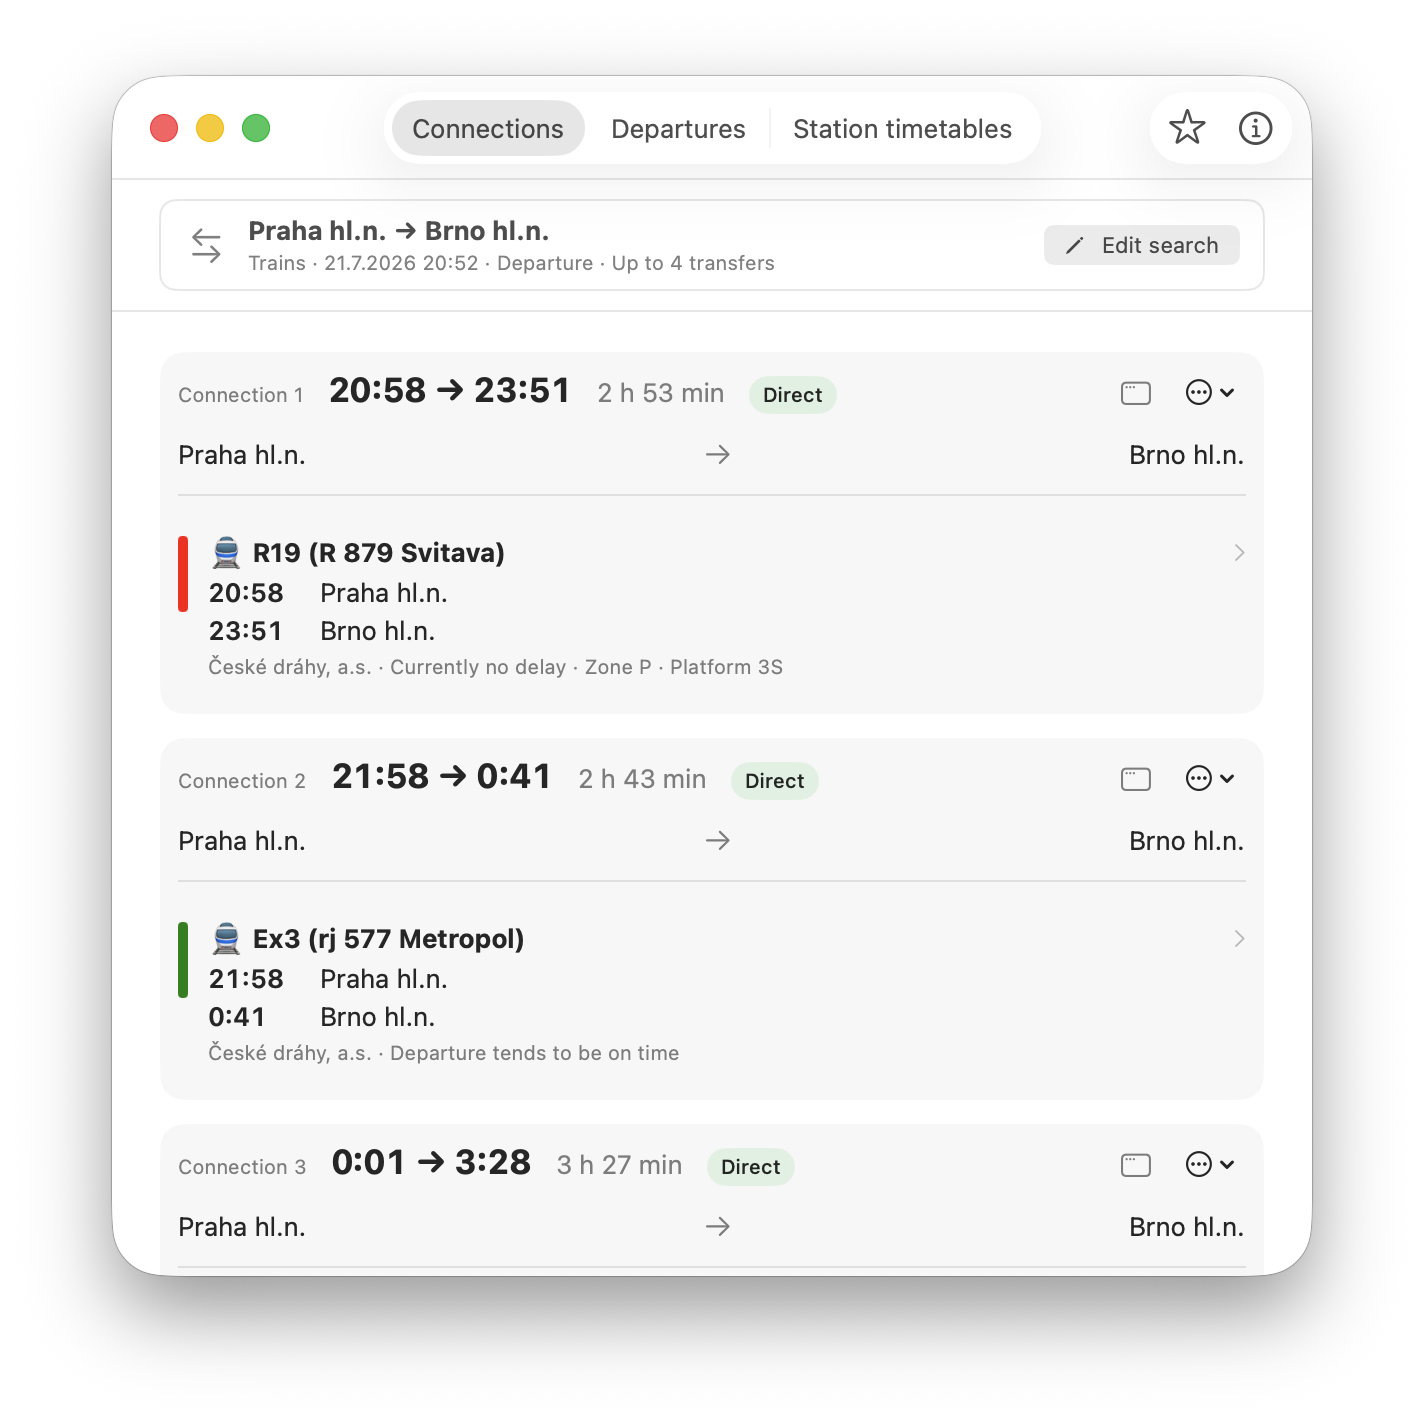
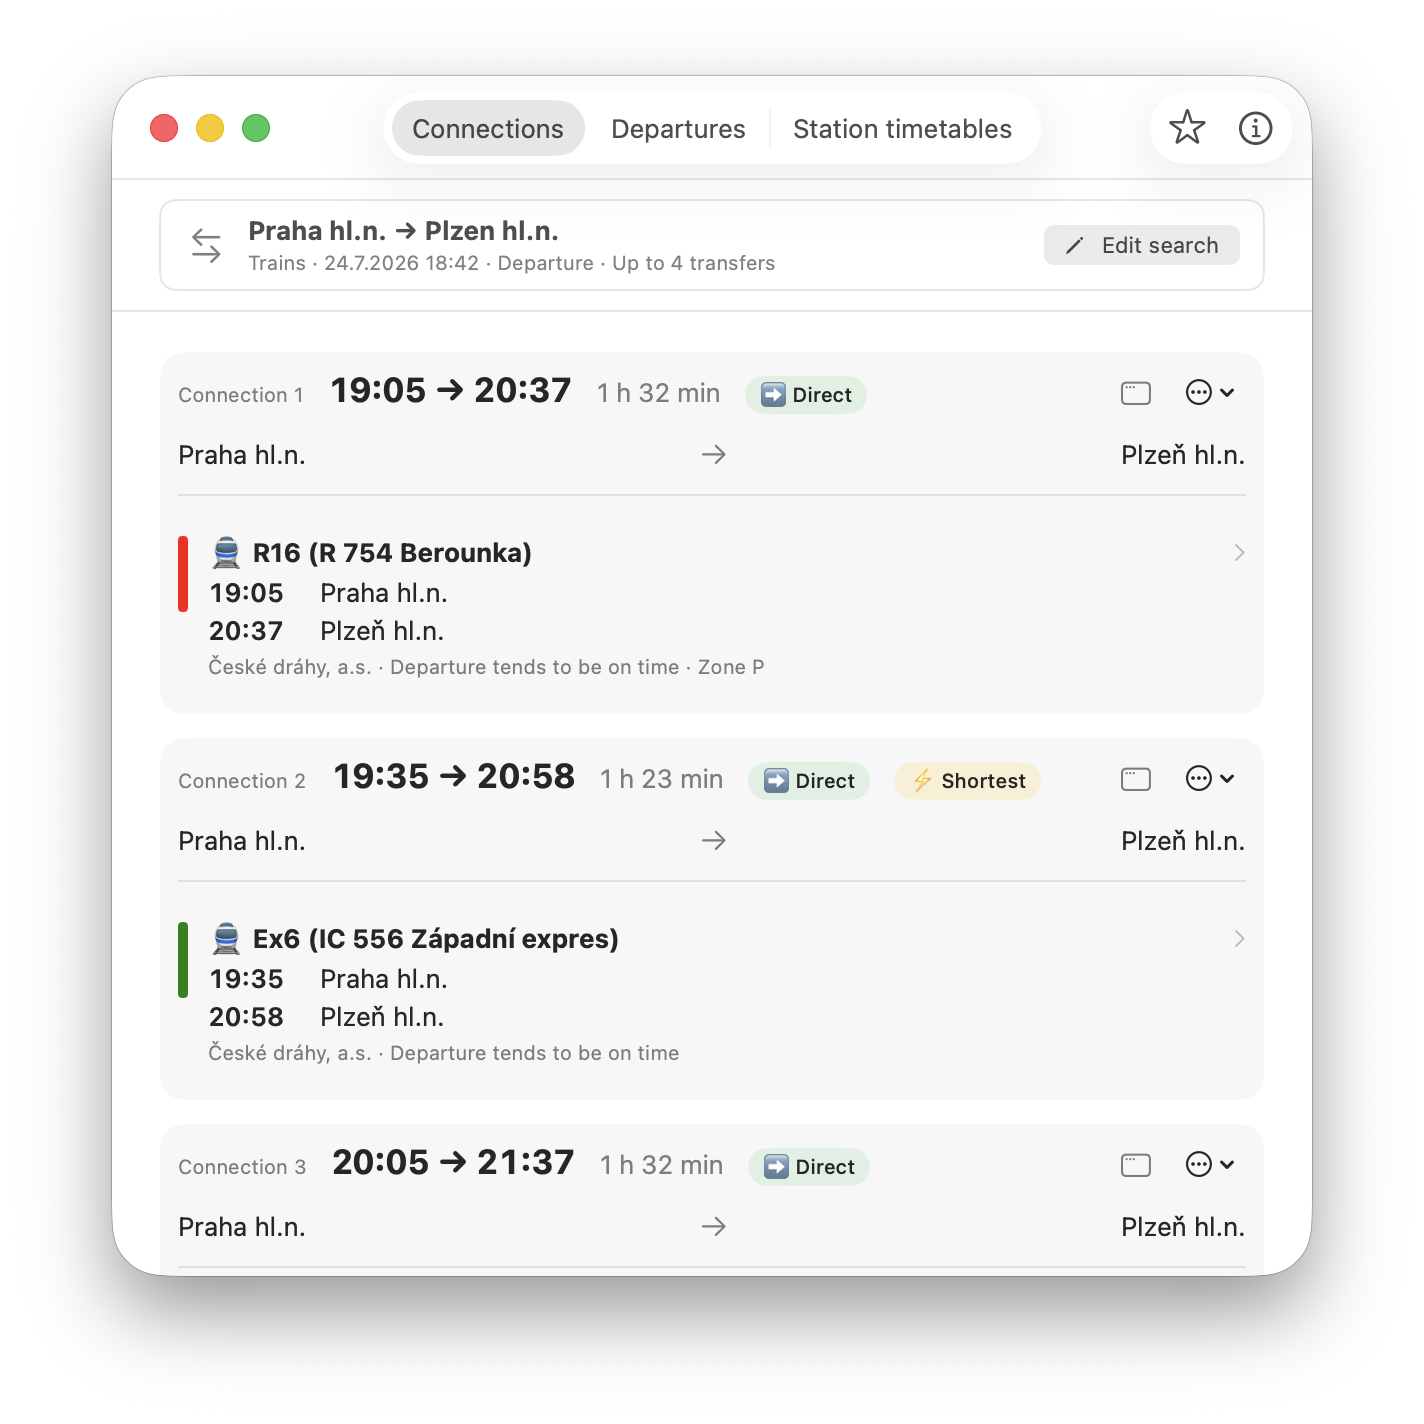
Refresh README screenshot with connection badges

diff --git a/README.md b/README.md
@@ -5,7 +5,7 @@
 Kaštan is an open-source companion for occasional personal [IDOS](https://idos.cz/en/) searches. Use it as a
 native macOS app or from a terminal, or integrate its search engine as a Swift library or local MCP server.
 
-![Kaštan for macOS showing train connections from Prague to Brno](docs/images/kastan-macos-connections.png)
+![Kaštan for macOS showing train connections from Prague to Plzeň](docs/images/kastan-macos-connections.png)
 
 Kaštan reads publicly reachable IDOS web pages. It is intended for personal, low-frequency use rather than as
 a stable or guaranteed data API.